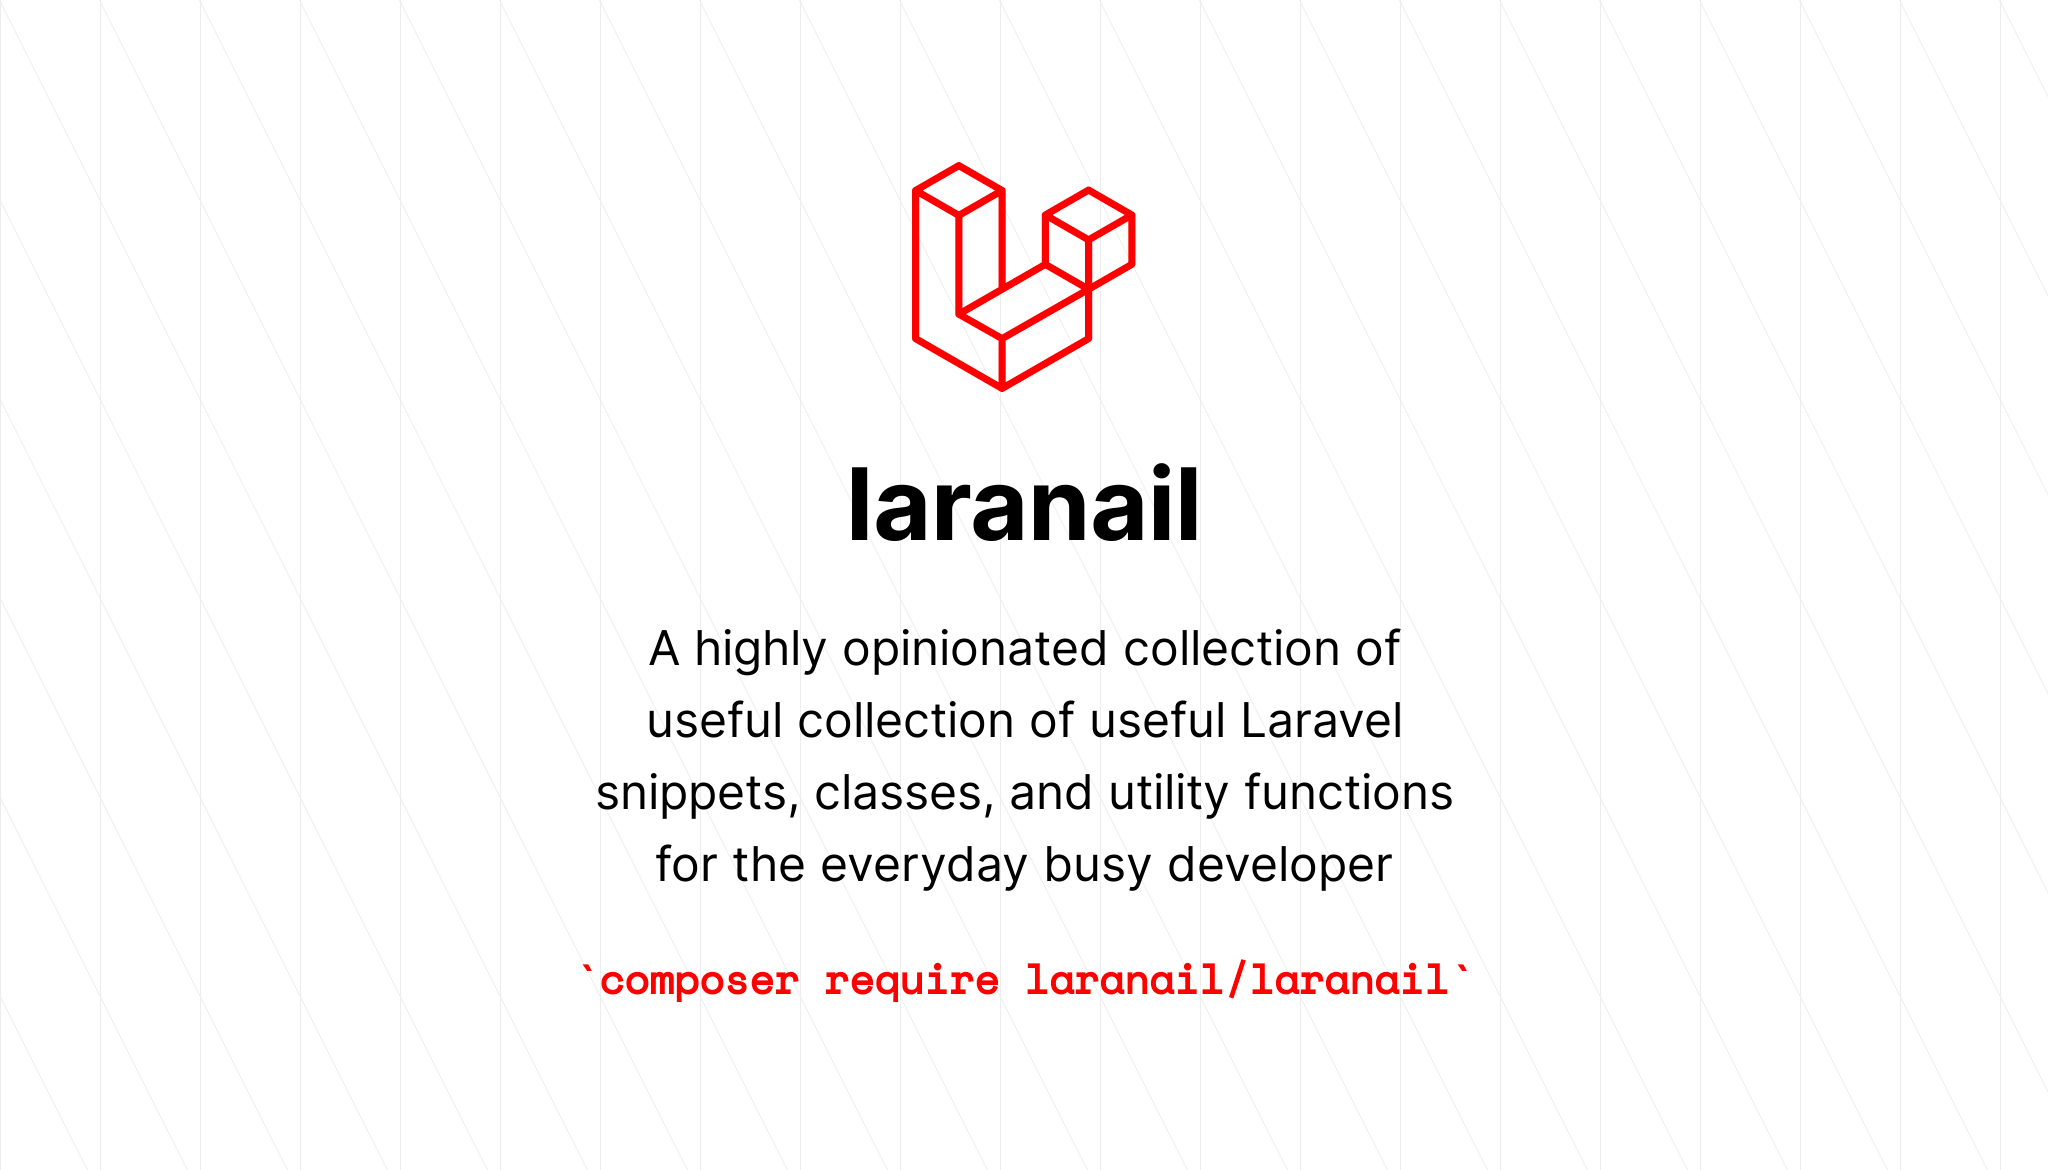
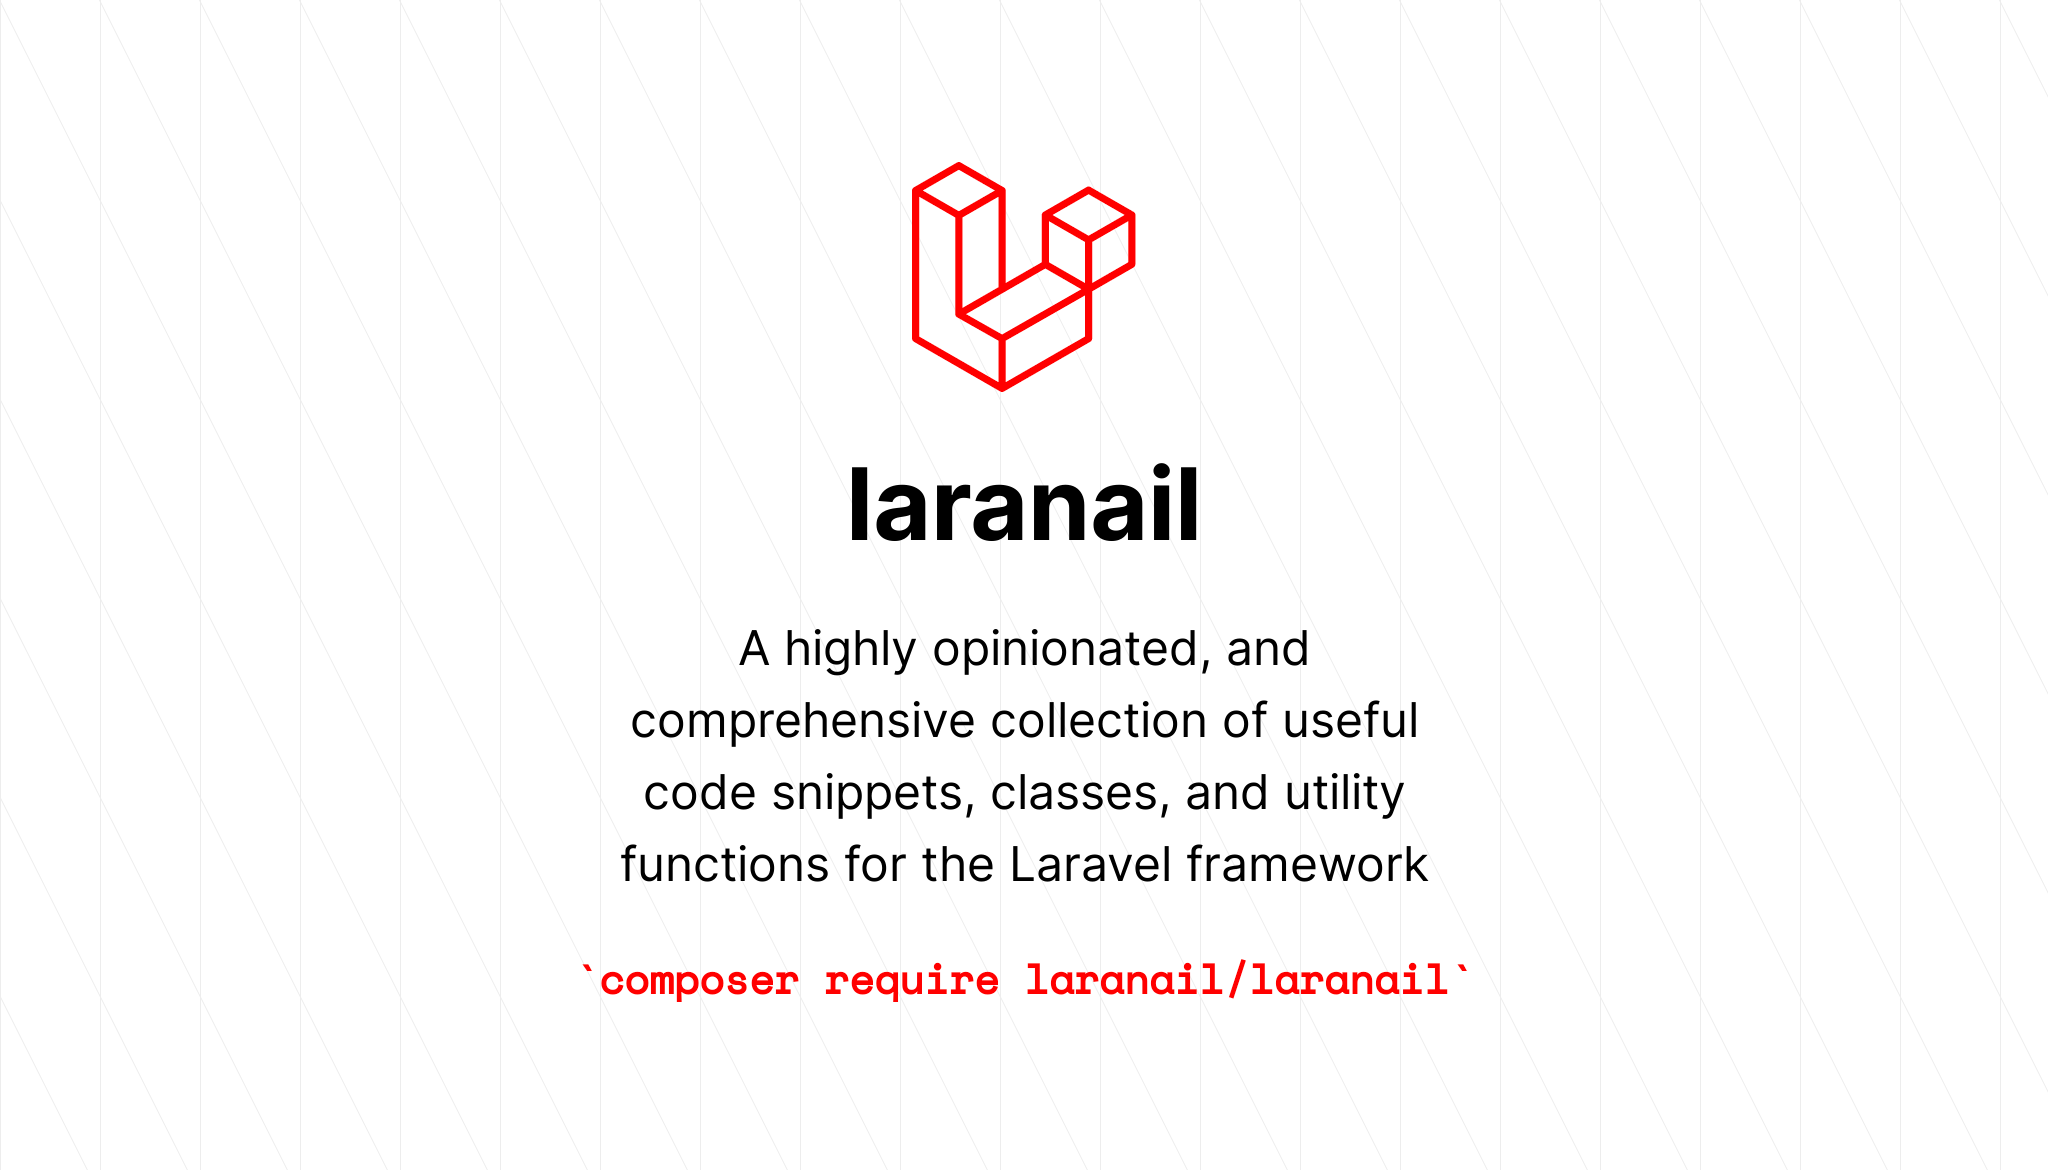
Bug fixes

Changed region(s): [[0.2812, 0.5231, 0.7188, 0.7692]]

diff --git a/README.md b/README.md
@@ -2,7 +2,7 @@
 
 Laranail
 ============
-A comprehensive collection of re-usable classes, functions, and methods for the [Laravel](https://www.laravel.com/) framework.
+A highly opinionated, and comprehensive collection of useful code snippets, classes, and utility functions for the [Laravel](https://www.laravel.com/) framework.
 
 Requirements
 ============
